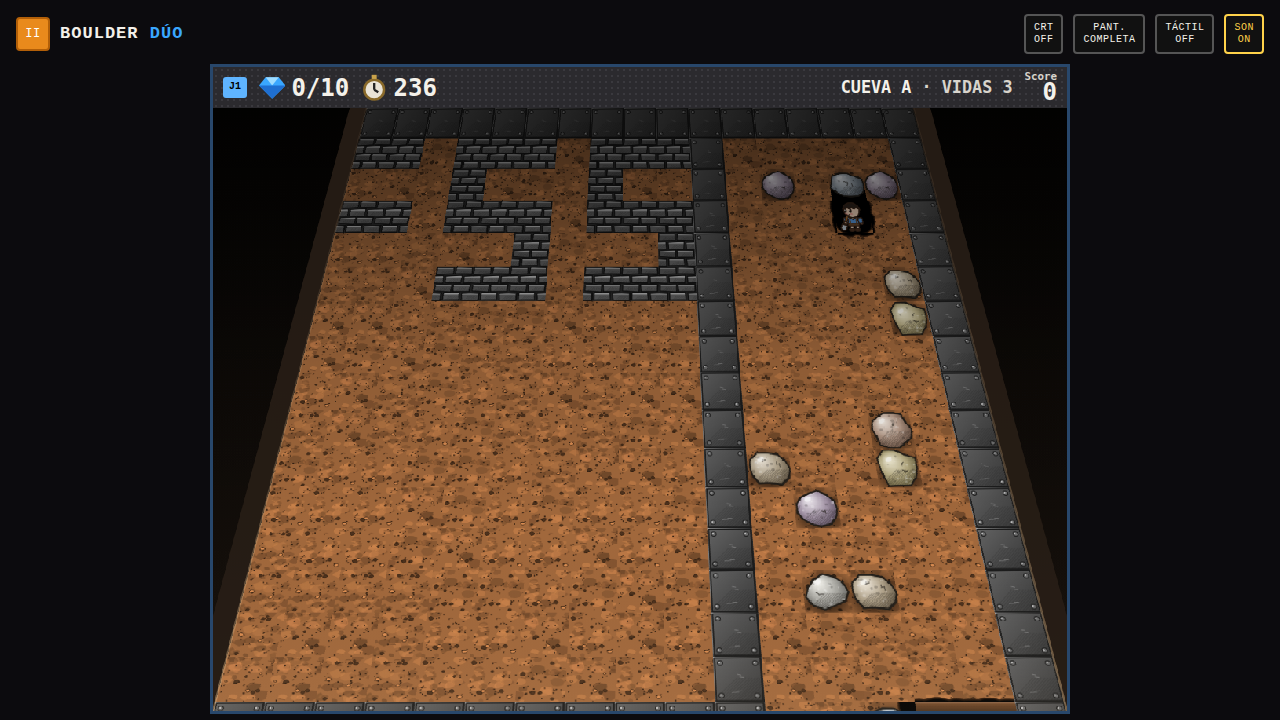
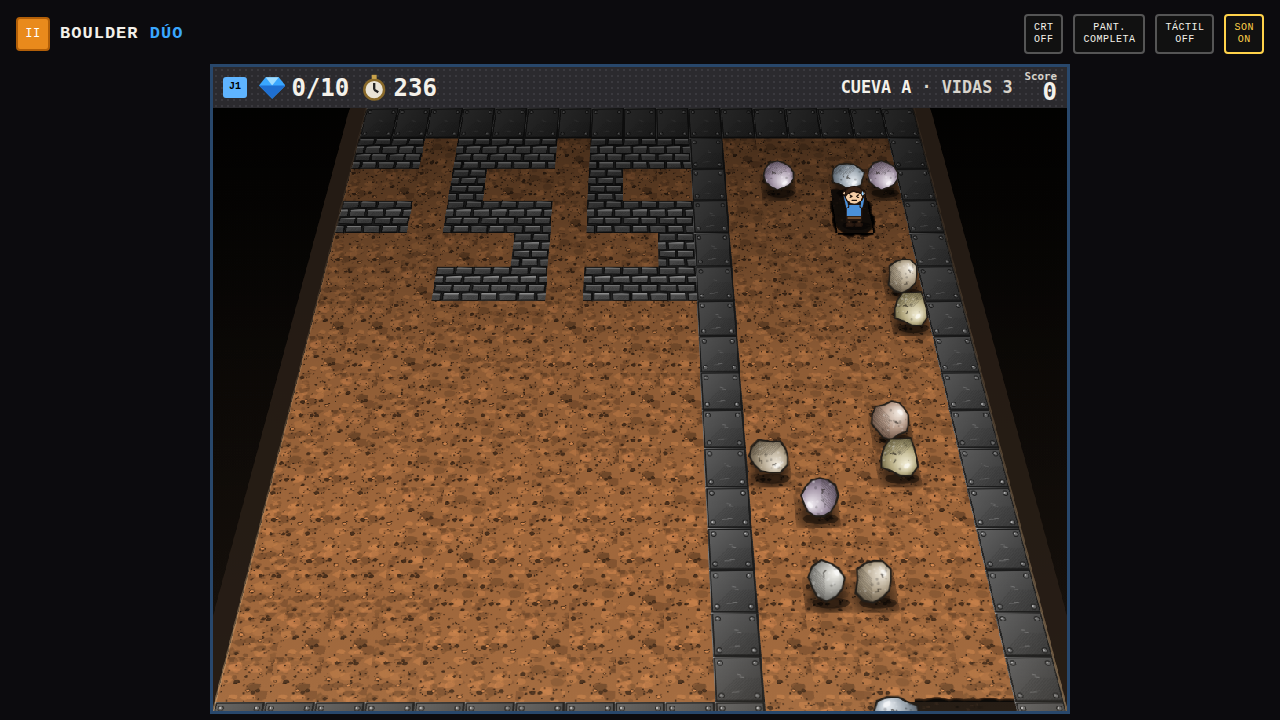
VISTA 3D: things stand up on the slab - kids with back, front and side views and holding up rocks, rolling rocks, hovering fireflies and butterflies, a floor where it is dug
Claude-Session: https://claude.ai/code/session_016YFeMcHkPfX7Lki2YKdEin

diff --git a/index.html b/index.html
@@ -4865,18 +4865,127 @@ function tiltBlit(main, src, sw, sh){
   }
   main.restore();
 }
+/* the things that stand up on the slab (VISTA 3D): rocks, gems, the kids, the fireflies and butterflies are not
+   laid flat with the cave but drawn upright where they stand, sized by how far up the slab they are, nearest last */
+const BILL = new Set([ROCK, GEM, P1, P2, FIRE, BUTT]);
+const KID3 = [{ dir: 'down', at: -1e9 }, { dir: 'down', at: -1e9 }];
+function drawBills(G, list, oy){
+  const DW = G.canvas.width, DH = G.canvas.height, a = TILT_FAR, L = Math.log(1 / a);
+  const items = list.map(o => {
+    const u = (o.py + T * .8) / (CH * T), s = a * Math.exp(Math.max(-.2, u) * L), w = DW * s;
+    return Object.assign(o, { X: (DW - w) / 2 + (o.px + T / 2) / (CW * T) * w, Y: (s - a) / (1 - a) * DH, ts: w / CW });
+  }).sort((p, q) => p.Y - q.Y);
+  G.save();
+  // their shadows on the slab first (lighter under what hovers)
+  for (const o of items) {
+    const fly = o.t === FIRE || o.t === BUTT;
+    G.fillStyle = fly ? 'rgba(0,0,0,.22)' : 'rgba(0,0,0,.42)';
+    G.beginPath(); G.ellipse(o.X + o.ts * .06, o.Y - o.ts * .02, o.ts * (fly ? .26 : o.t === GEM ? .3 : .4), o.ts * (fly ? .08 : .12), 0, 0, Math.PI * 2); G.fill();
+  }
+  for (const o of items) {
+    const { X, Y, ts } = o;
+    if (o.t === ROCK) {
+      // a rock rolls as it goes, sideways and down the slope; it squashes a little when it lands
+      const fx = src[o.i] >= 0 ? src[o.i] % W - o.i % W : 0, land = (simT - landAt[o.i]) / 240;
+      let sy = 1, hop = 0;
+      if (land >= 0 && land < 1 && o.k === 0) { if (land < .35) sy = 1 - .14 * Math.sin(Math.PI * land / .35); else hop = -ts * .07 * Math.sin(Math.PI * (land - .35) / .65); }
+      const ang = rot[o.i] + fx * Math.PI / 2 * o.k + (o.py + oy) / T * Math.PI / 2, sz = ts * 1.06;
+      G.save(); G.translate(X, Y + hop); G.scale(1, sy); G.translate(0, -sz * .47); G.rotate(ang); G.drawImage(o.s, -sz / 2, -sz / 2, sz, sz); G.restore();
+    } else if (o.t === GEM) {
+      const sz = ts * .9, bob = Math.sin(simT / 300 + o.i) * ts * .05;
+      G.drawImage(o.s, X - sz / 2, Y - sz - ts * .08 + bob, sz, sz);
+    } else if (o.t === FIRE) {
+      // a firefly: a glowing bug hovering over the floor, its square spinning inside the glow
+      const hy = Y - ts * (.62 + .06 * Math.sin(simT / 170 + o.i)), gl = G.createRadialGradient(X, hy, 0, X, hy, ts * .62);
+      gl.addColorStop(0, 'rgba(255,220,120,.55)'); gl.addColorStop(1, 'rgba(255,140,40,0)'); G.fillStyle = gl; G.fillRect(X - ts * .62, hy - ts * .62, ts * 1.24, ts * 1.24);
+      const sz = ts * .78; G.save(); G.translate(X, hy); G.rotate(simT / 260); G.drawImage(o.s, -sz / 2, -sz / 2, sz, sz); G.restore();
+    } else if (o.t === BUTT) {
+      // a butterfly flapping, a little above the floor
+      const hy = Y - ts * (.58 + .08 * Math.sin(simT / 210 + o.i)), f = .3 + .7 * Math.abs(Math.sin(simT / 85 + o.i)), sz = ts * .95;
+      G.save(); G.translate(X, hy); G.scale(f, 1); G.drawImage(o.s, -sz / 2, -sz / 2, sz, sz); G.restore();
+    } else drawKid3(G, o);
+  }
+  G.restore();
+}
+// a kid standing on the slab: the back going up, the face coming down, the profile going sideways; holding up the
+// rock (or gem) resting on top of them with back and arms; the idle games keep their own pictures, standing up
+function drawKid3(G, o){
+  const p = players[o.t - P1], kd = KID3[p.id], { X, Y, ts } = o;
+  if (o.k > 0 && src[o.i] >= 0) {
+    const fx = src[o.i] % W, fy = src[o.i] / W | 0, x = o.i % W, y = o.i / W | 0;
+    kd.dir = y < fy ? 'up' : y > fy ? 'down' : x > fx ? 'right' : 'left'; kd.at = simT;
+  } else if (simT - kd.at > 1600) kd.dir = 'down';
+  const moving = simT - kd.at < tickMs * 1.25, above = grid[o.i - W], hold = !moving && (above === ROCK || above === GEM);
+  const act = hold ? '' : idleAct(p);
+  if (!hold && (act || rpsNow)) { const sz = ts * 1.16; G.drawImage(o.s, X - sz / 2, Y - sz + ts * .04, sz, sz); return; }
+  const u = ts / 64, girl = p.id === 1, sw = moving ? Math.sin(simT / 85) : 0, side = kd.dir === 'left' || kd.dir === 'right', back = kd.dir === 'up';
+  const C = girl ? { hair: '#6b3519', top: '#ee7f3c', topD: '#c55e24', leg: '#f6cfa6', shoe: '#b5302a', band: '#e8443a' } : { hair: '#3a2416', top: '#4a90d9', topD: '#2f6bb0', leg: '#6b4a2e', shoe: '#2b1b12' };
+  const SK = '#f6cfa6', OL = '#21140d';
+  G.save(); G.translate(X, Y); G.scale(u * (kd.dir === 'left' ? -1 : 1), u);
+  G.lineJoin = 'round'; G.lineCap = 'round'; G.strokeStyle = OL; G.lineWidth = 2.4;
+  const shape = (f, fill) => { G.beginPath(); f(); G.fillStyle = fill; G.fill(); G.stroke(); };
+  const ellP = (x, y, rx, ry) => () => G.ellipse(x, y, rx, ry, 0, 0, Math.PI * 2);
+  const crouch = hold ? 7 : 0, by = -Math.abs(sw) * 1.5 + crouch;
+  // legs and shoes
+  if (side) {
+    for (const k of [-1, 1]) { const lx = k * sw * 7; shape(() => { G.moveTo(-3, -22 + by); G.lineTo(lx - 3, -4); G.lineTo(lx + 4, -4); G.lineTo(4, -22 + by); }, C.leg); shape(ellP(lx + 3, -3, 7, 3.6), C.shoe); }
+  } else if (hold) {
+    for (const k of [-1, 1]) { shape(() => { G.moveTo(k * 4, -18 + by); G.lineTo(k * 13, -10); G.lineTo(k * 9, -3); G.lineTo(k * 5, -3); G.lineTo(k * 6, -10); G.lineTo(k * 1, -18 + by); }, C.leg); shape(ellP(k * 8, -3, 6.5, 3.6), C.shoe); }
+  } else {
+    for (const k of [-1, 1]) { const lift = Math.max(0, k * sw) * 6; shape(() => G.rect(k * 6.5 - 3.6, -22 + by, 7.2, 19 - lift), C.leg); shape(ellP(k * 6.5, -3 - lift, 6, 3.6), C.shoe); }
+  }
+  // the shovel, on the back going up, in the hand otherwise
+  const shovel = (x0, y0, x1, y1) => { G.save(); G.lineWidth = 3.4; G.strokeStyle = OL; G.beginPath(); G.moveTo(x0, y0); G.lineTo(x1, y1); G.stroke(); G.lineWidth = 2; G.strokeStyle = '#a4743f'; G.stroke(); G.restore(); shape(ellP(x1, y1, 4.4, 6), '#b8bec6'); };
+  if (back) shovel(-13, -26 + by, 12, -72 + by);
+  // body: his shirt and trousers, her dress
+  if (girl) shape(() => { G.moveTo(side ? -9 : -12, -46 + by); G.lineTo(side ? 9 : 12, -46 + by); G.lineTo(side ? 13 : 18, -17 + by); G.lineTo(side ? -13 : -18, -17 + by); G.closePath(); }, C.top);
+  else { shape(() => G.rect(side ? -9 : -13, -27 + by, side ? 18 : 26, 9), C.leg); shape(() => { G.moveTo(side ? -9 : -14, -46 + by); G.lineTo(side ? 9 : 14, -46 + by); G.lineTo(side ? 9 : 14, -25 + by); G.lineTo(side ? -9 : -14, -25 + by); G.closePath(); }, C.top); }
+  // arms: swinging, or up holding the rock
+  const arm = (x0, y0, x1, y1) => { G.save(); G.lineWidth = 7.4; G.strokeStyle = OL; G.beginPath(); G.moveTo(x0, y0); G.lineTo(x1, y1); G.stroke(); G.lineWidth = 4.6; G.strokeStyle = C.top; G.stroke(); G.restore(); shape(ellP(x1, y1, 3.6, 3.6), SK); };
+  if (hold) { arm(-13, -43 + by, -17, -66 + by); arm(13, -43 + by, 17, -66 + by); }
+  else if (side) { arm(0, -42 + by, 9 - sw * 8, -27 + by); if (!back) shovel(9 - sw * 8, -28 + by, 22 - sw * 6, -8 + by); }
+  else { arm(-13, -43 + by, -17, -26 + by - sw * 3); arm(13, -43 + by, 17, -26 + by + sw * 3); }
+  // head: hair, then the face from the front or the side; just hair from behind
+  const hy = -62 + by;
+  if (girl && !side) shape(() => { G.moveTo(-16, hy); G.lineTo(-17, hy + 20); G.lineTo(17, hy + 20); G.lineTo(16, hy); G.closePath(); }, C.hair);
+  shape(ellP(0, hy, 16, 15.5), back ? C.hair : SK);
+  if (back) { G.strokeStyle = 'rgba(0,0,0,.25)'; G.lineWidth = 1.4; G.beginPath(); G.moveTo(-6, hy - 12); G.quadraticCurveTo(-2, hy, -5, hy + 12); G.moveTo(5, hy - 12); G.quadraticCurveTo(8, hy, 4, hy + 12); G.stroke(); G.strokeStyle = OL; G.lineWidth = 2.4; }
+  else if (side) {
+    shape(() => { G.moveTo(-16, hy + 6); G.quadraticCurveTo(-18, hy - 16, 2, hy - 15.5); G.quadraticCurveTo(14, hy - 15, 15, hy - 6); G.quadraticCurveTo(4, hy - 9, -2, hy - 4); G.quadraticCurveTo(-6, hy + 4, -10, hy + 9); G.closePath(); }, C.hair);
+    if (girl) shape(() => { G.moveTo(-14, hy + 4); G.quadraticCurveTo(-22, hy + 16, -12, hy + 22); G.quadraticCurveTo(-6, hy + 12, -10, hy + 6); G.closePath(); }, C.hair);
+    G.fillStyle = OL; G.beginPath(); G.ellipse(8, hy, 1.9, 2.8, 0, 0, Math.PI * 2); G.fill();
+    G.fillStyle = 'rgba(240,120,110,.5)'; G.beginPath(); G.ellipse(6, hy + 6, 3, 2, 0, 0, Math.PI * 2); G.fill();
+  } else {
+    shape(() => { G.moveTo(-16, hy + 2); G.quadraticCurveTo(-17, hy - 17, 0, hy - 16.5); G.quadraticCurveTo(17, hy - 17, 16, hy + 2); G.quadraticCurveTo(10, hy - 8, 4, hy - 6); G.quadraticCurveTo(-2, hy - 10, -8, hy - 5); G.quadraticCurveTo(-12, hy - 4, -16, hy + 2); G.closePath(); }, C.hair);
+    G.fillStyle = OL; G.strokeStyle = OL;
+    if (hold) { G.lineWidth = 1.8; for (const k of [-1, 1]) { G.beginPath(); G.moveTo(k * 8, hy - 1); G.lineTo(k * 4, hy + 1); G.lineTo(k * 8, hy + 3); G.stroke(); } G.beginPath(); G.moveTo(-4, hy + 8); G.lineTo(4, hy + 8); G.stroke(); G.lineWidth = 2.4;
+      G.fillStyle = '#9fd6ff'; G.beginPath(); G.moveTo(15, hy - 8); G.quadraticCurveTo(19, hy - 2, 15, hy); G.quadraticCurveTo(12, hy - 3, 15, hy - 8); G.fill(); }
+    else { for (const k of [-1, 1]) { G.beginPath(); G.ellipse(k * 6, hy + 1, 2, 3, 0, 0, Math.PI * 2); G.fill(); } G.lineWidth = 1.6; G.beginPath(); G.arc(0, hy + 6, 3.4, .2, Math.PI - .2); G.stroke(); G.lineWidth = 2.4;
+      G.fillStyle = 'rgba(240,120,110,.45)'; for (const k of [-1, 1]) { G.beginPath(); G.ellipse(k * 10, hy + 5, 3, 2, 0, 0, Math.PI * 2); G.fill(); } }
+  }
+  if (girl) { G.fillStyle = C.band; G.fillRect(-15, hy - 9, side ? 26 : 30, 3.6); }
+  G.restore();
+}
 // relief, drawn under everything else: below each block that has open space beneath it, the block's front face
 const RELIEF = { [WALL]: '#7a3e2c', [STEEL]: '#6a6a74', [EXIT]: '#6a6a74' };
 function drawRelief(g, ox, oy, x0, y0){
   const h = T * .34;
   for (let y = Math.max(0, y0 - 2); y <= Math.min(H - 2, y0 + Math.ceil(CH) + 2); y++) for (let x = Math.max(0, x0 - 2); x <= Math.min(W - 1, x0 + Math.ceil(CW) + 2); x++) {
     const i = y * W + x, t = grid[i];
+    // where it was dug out, the floor of the cave: dark trodden earth (so the slab has no holes)
+    if (isOpenCell(t) || t === ROCK || t === GEM) g.drawImage(FLOOR3[(x * 7 + y * 13) % 4], x * T - ox, y * T - oy, T, T);
     if (!(t === DIRT || t === WALL || t === STEEL || t === EXIT) || !isOpenCell(grid[i + W]) || (simT - dugAt[i + W]) / tickMs < 1) continue;
     const px = x * T - ox, py = (y + 1) * T - oy;
     g.fillStyle = t === DIRT ? CAVE_DIRT() : RELIEF[t]; g.fillRect(px, py, T, h);
     g.drawImage(RELIEF_SHADE, px, py, T, T * .56);
   }
 }
+const FLOOR3 = [0, 1, 2, 3].map(v => {
+  const c = document.createElement('canvas'); c.width = c.height = 32; const g = c.getContext('2d'), R = rng(90 + v * 7);
+  g.fillStyle = '#1c140e'; g.fillRect(0, 0, 32, 32);
+  for (let n = 0; n < 26; n++) { g.fillStyle = R() < .5 ? 'rgba(70,50,34,.55)' : 'rgba(0,0,0,.35)'; g.fillRect(R() * 32, R() * 32, 1 + R() * 2, 1); }
+  return c;
+});
 // the face's shading (darker downwards, a lit top edge) and the soft shadow on the floor in front of it
 const RELIEF_SHADE = (() => {
   const c = document.createElement('canvas'); c.width = 8; c.height = 56; const g = c.getContext('2d');
@@ -4912,7 +5021,7 @@ function renderView(k){
   const x0 = Math.floor(ox / T), y0 = Math.floor(oy / T);
   const pv = players[k], af = Math.floor(frame / 6) % 4, open = pv && !pv.ai ? exitOpenFor(pv) : exitVisiblyOpen();
   infViewP = pv;
-  const glide = [];
+  const glide = [], bills = [], bb = tilt && !(darkCaves && mode !== 'train' && state !== 'menu');
   if (tilt) drawRelief(g, ox, oy, x0, y0);
   for (let y = Math.max(0, y0 - 2); y <= Math.min(H-1, y0 + Math.ceil(CH) + 2); y++) for (let x = Math.max(0, x0 - 2); x <= Math.min(W-1, x0 + Math.ceil(CW) + 2); x++){
     const i = y*W + x, s = tileSprite(grid[i], i, x, y, af, open);
@@ -4938,15 +5047,16 @@ function renderView(k){
       // a resting rock or gem sits in the earth: dirt behind it, opened only towards empty neighbours
       const px = x*T - ox, py = y*T - oy;
       g.drawImage(dirtCut(DV[i], openMask(i), true), px, py, T, T);
-      if (tt === ROCK || tt === GEM) { drawThing(g, s, i, px, py, 0, tt === ROCK); continue; }
+      if (tt === ROCK || tt === GEM) { if (bb) bills.push({ t: tt, s, i, px, py, k: 0 }); else drawThing(g, s, i, px, py, 0, tt === ROCK); continue; }
     }
     const dp = (tt === P1 || tt === P2) && netRole && isRemote(players[tt - P1]) ? netDisp[tt - P1] : null;
     if (dp) glide.push([s, i, 0, dp[0] * T - ox, dp[1] * T - oy]);   // the other phone's kid, where it is drawn
     else if (gk > 0) { const k = glideEase(i, gk); glide.push([s, i, k, (x + (from % W - x) * k) * T - ox, (y + ((from / W | 0) - y) * k) * T - oy]); }
+    else if (bb && BILL.has(tt)) bills.push({ t: tt, s, i, px: x*T - ox, py: y*T - oy, k: 0 });
     else g.drawImage(s, x*T - ox, y*T - oy, T, T);
   }
   drawAmbient(g, ox, oy, x0, y0);
-  glide.forEach(([s, i, k, px, py]) => { const t = grid[i]; if (t === ROCK || t === GEM) drawThing(g, s, i, px, py, k, t === ROCK); else g.drawImage(s, Math.round(px * zs) / zs, Math.round(py * zs) / zs, T, T); });
+  glide.forEach(([s, i, k, px, py]) => { const t = grid[i]; if (bb && BILL.has(t)) { bills.push({ t, s, i, px, py, k }); return; } if (t === ROCK || t === GEM) drawThing(g, s, i, px, py, k, t === ROCK); else g.drawImage(s, Math.round(px * zs) / zs, Math.round(py * zs) / zs, T, T); });
   drawCrowns(g, ox, oy, x0, y0);
   if (darkCaves && mode !== 'train' && state !== 'menu') drawDark(g, k, ox, oy, x0, y0);
   drawCritters(g, ox, oy);
@@ -5044,7 +5154,7 @@ function renderView(k){
   }
   if (g !== main) {
     main.setTransform(1, 0, 0, 1, 0, 0); main.imageSmoothingEnabled = true;
-    if (tilt) tiltBlit(main, g.canvas, CW * T * zs, CH * T * zs);
+    if (tilt) { tiltBlit(main, g.canvas, CW * T * zs, CH * T * zs); if (bills.length) drawBills(main, bills, oy); }
     else main.drawImage(g.canvas, 0, 0, g.canvas.width * zFull / zs, g.canvas.height * zFull / zs);
     main.imageSmoothingEnabled = false; g = main;
   }

diff --git a/README.md b/README.md
@@ -166,6 +166,14 @@ En un archivo aparte, **`bd3d.html`**: Boulder Dash en un cubo de bloques con te
 
   ![Vista 3D](docs/vista3d.png)
 
+  En la vista 3D las cosas no van acostadas con la cueva sino **de pie** sobre ella, con su sombra en el piso, más chicas mientras más lejos, y lo más cercano tapa a lo de atrás:
+  - **Los niños** (dibujados de nuevo para esta vista) muestran la espalda, con la pala, al subir; la cara al bajar, y el perfil al ir de lado, caminando. Si se detienen bajo una roca o un diamante, **lo sostienen** con la espalda y los brazos en alto, agachados y haciendo fuerza. Sus juegos cuando nadie los mueve (leer, dormir, la pelota, el cachipún) siguen con sus dibujos de siempre, de pie.
+  - **Las rocas ruedan** al moverse, de lado y cuesta abajo, y se aplastan un poco al caer; **los diamantes** flotan apenas.
+  - **Las luciérnagas** brillan suspendidas sobre el piso y **las mariposas** aletean en el aire.
+  - Lo excavado es piso de tierra oscura, y cada bloque muestra su cara frontal.
+
+  ![Los niños en la vista 3D](docs/vista3d-ninos.png)
+
 ![Cueva M*](docs/cueva-mstar.png) ![Oscuridad](docs/oscuridad.png)
 
 ## Modos
